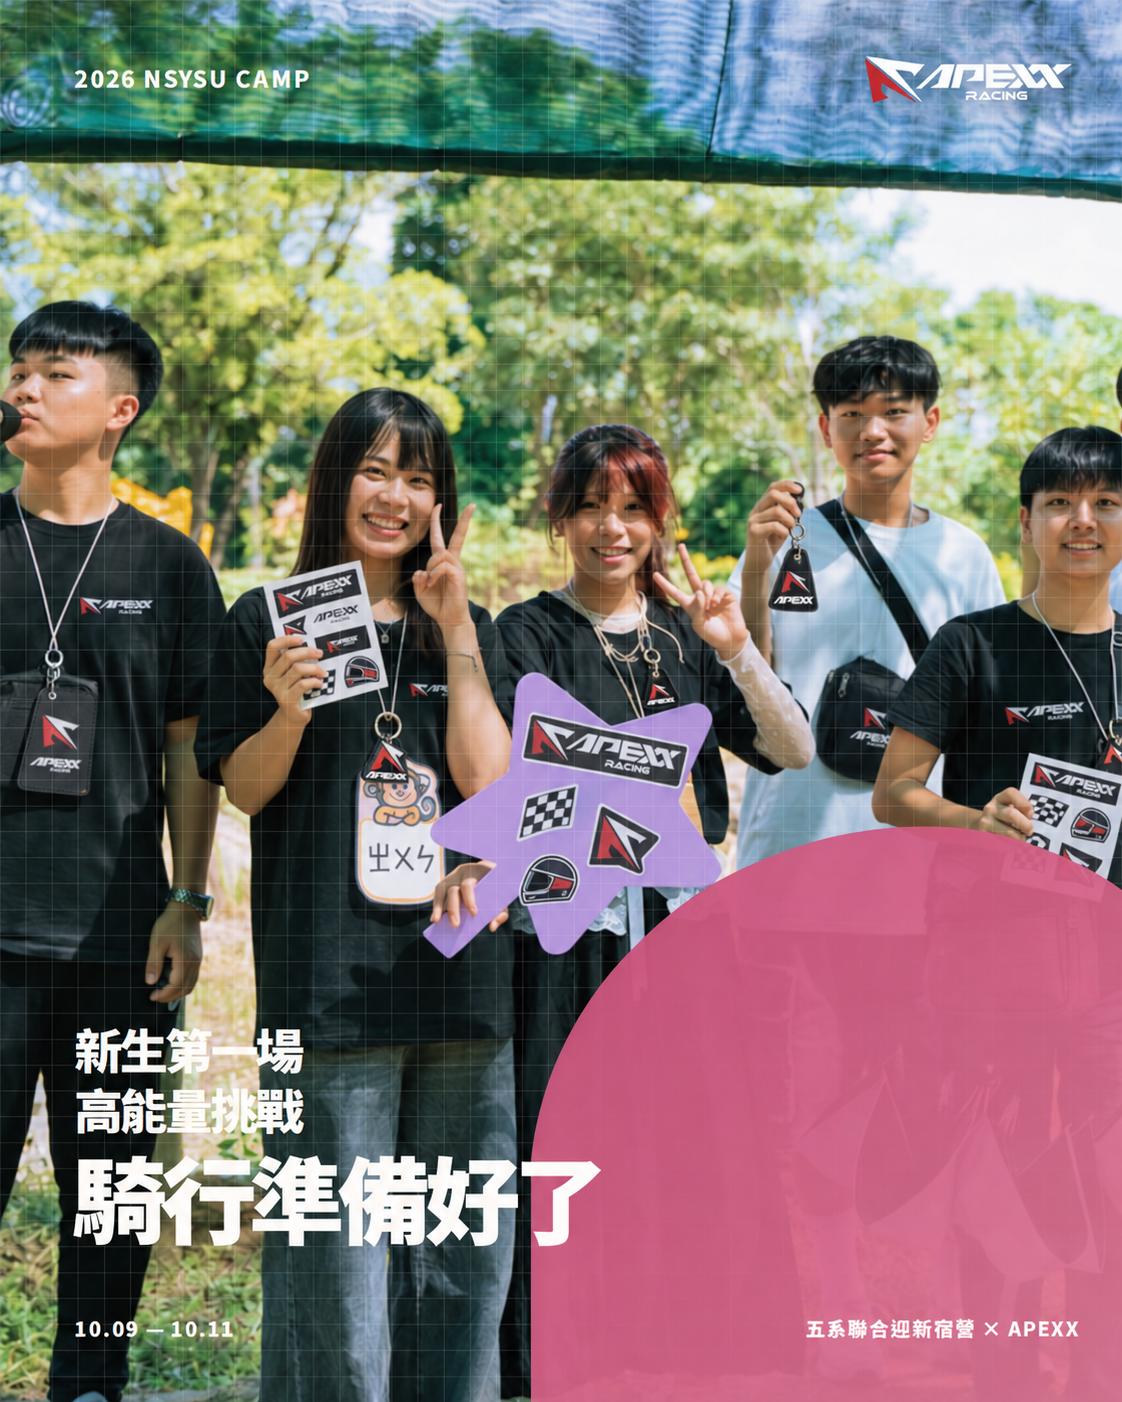
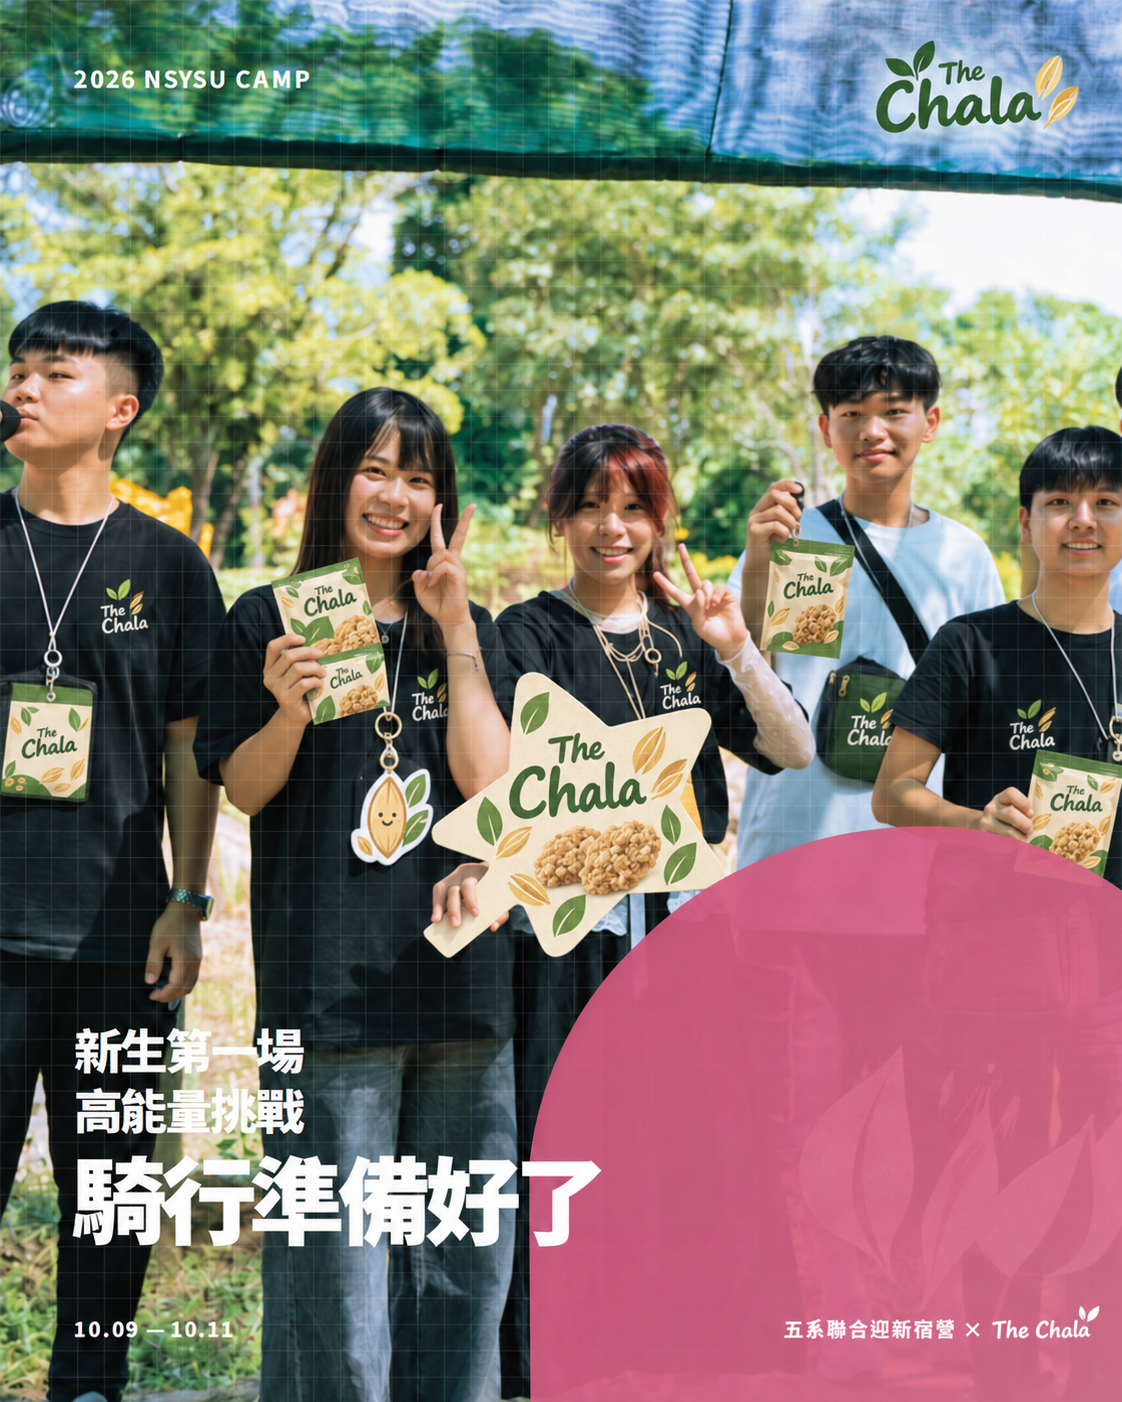
Polish The Chala proposal and post visual

diff --git a/the-chala/index.html b/the-chala/index.html
@@ -15,9 +15,9 @@
     <a class="skip-link" href="#overview">跳到提案內容</a>
     <header class="proposal-header"><nav class="proposal-nav shell" aria-label="提案頁面導覽"><a class="proposal-brand" href="#overview"><img src="assets/images/logo-avatar.jpg" alt="五系聯合宿營標誌" /><span><b>蕎拉燕麥 合作提案</b><small>2026 中山五系聯合迎新宿營</small></span></a><button class="nav-toggle" type="button" aria-expanded="false" aria-controls="proposal-menu">頁面選擇</button><div class="proposal-links" id="proposal-menu"><a class="active" href="#overview">活動資訊</a><a href="#collaboration">合作邀請</a><a href="#proposal">合作方案</a><a href="#execution">行程安全</a></div></nav></header>
     <main>
-      <section class="proposal-page overview is-active" id="overview" aria-labelledby="overview-title" tabindex="-1"><div class="shell overview-grid"><div class="overview-copy"><p class="eyebrow">PRIVATE PROPOSAL</p><p class="camp-line">國立中山大學・五系聯合迎新宿營</p><h1 id="overview-title"><span>把在地風味</span><em>放進相遇的時刻</em></h1><p class="opening">邀請 蕎拉燕麥 The Chala 陪五系新生在迎新晚會、闖關與小隊休息的合作情境中，認識指定商品的特色與品牌故事</p><dl class="event-facts"><div><dt>時間</dt><dd>2026.10.09 — 10.11</dd></div><div><dt>地點</dt><dd>中山大學・走馬瀨・安平</dd></div><div><dt>規模</dt><dd>150 人</dd></div></dl><a class="next-link" href="#collaboration">看見合作方式 <span aria-hidden="true">↓</span></a></div><figure class="overview-photo"><img src="assets/images/sponsor-hero.webp" alt="五系聯合宿營學員戶外合照" /><figcaption>活動情境示意｜合作素材與品牌露出將於執行前送交確認</figcaption></figure></div><div class="shell proof-strip"><div><strong>五系編制</strong><span>外文、醫科、光電、機電、生科</span></div><div><strong>三天兩夜</strong><span>破冰、戶外闖關、水大地、晚會與安平探索</span></div><div><strong>完整活動計畫</strong><span>隊輔陪伴、點名、安全說明與緊急應變</span></div></div></section>
-      <section class="proposal-page collaboration" id="collaboration" aria-labelledby="collaboration-title" tabindex="-1"><div class="shell hydration-grid"><figure class="hydration-photo"><img src="assets/images/sponsor-work-together.webp" alt="宿營學員團隊合照" /><figcaption>合作情境示意｜贊助品與宣傳素材將依 蕎拉燕麥 The Chala 核可內容執行</figcaption></figure><div class="hydration-copy"><p class="eyebrow blue">WHY 蕎拉燕麥 The Chala</p><h2 id="collaboration-title"><span>讓在地風味成為</span><span>晚會交流的記憶</span></h2><p>我們期待在活動中，以不將產品作為高風險活動或競賽的必要條件的方式，介紹蕎拉燕麥指定商品與品牌故事。商品實際提供方式、保存條件與現場呈現皆以品牌最終確認為準。</p><a class="source-link" href="https://www.riverbird.com.tw" target="_blank" rel="noopener noreferrer">前往蕎拉燕麥官方網站 ↗</a><article class="ask-card"><div class="ask-card-title"><span>核心合作邀請</span><strong>蕎拉燕麥裸食燕麥脆片隨身包</strong><span class="ask-product-detail">80 包｜活動合作安排</span></div><p>希望邀請 蕎拉燕麥 The Chala 提供 <b>80 包</b>，作為福袋、闖關補給或晚會分享情境的合作提案基礎。實際提供方式、場域安排與活動安全規範，皆以品牌最終確認為準。</p><div class="blank-product"><span>合作安排</span><b>依品牌建議的保存、提供與食用方式安排於合適活動時段</b></div><p>若 蕎拉燕麥 The Chala 希望搭配貼紙、鑰匙圈或其他品牌識別素材，我們也很樂意依品牌提供的內容，規劃合適的活動互動、網站與社群露出；所有呈現方式皆會在執行前送交確認。</p><small>產品規格、適用性、提供方式、品牌素材與露出範圍，均以 蕎拉燕麥 The Chala 最終確認為準。</small></article><a class="next-link" href="#proposal">看合作方案 <span aria-hidden="true">↓</span></a></div></div></section>
-      <section class="proposal-page partnership" id="proposal" aria-labelledby="proposal-title" tabindex="-1"><div class="shell partnership-heading"><p class="eyebrow">PARTNERSHIP PROPOSAL</p><h2 id="proposal-title">讓蕎拉燕麥的在地風味成為晚會交流的一部分</h2></div><div class="shell decision-layout"><article class="primary-request"><p>優先合作方案</p><div class="request-number"><strong>蕎拉燕麥裸食燕麥脆片隨身包<br /><span>80 包</span></strong></div><ul><li>裸食燕麥脆片隨身包依品牌建議的保存與提供方式安排</li><li>不作為遊戲獎勵，現場亦備有飲水與基本補給</li><li>實際提供與使用方式依品牌及場地規範確認</li><li>活動網站與 Instagram 內容皆於上線前送交核可</li></ul></article></div><div class="shell deliverable-table-wrap"><table class="deliverable-table"><caption>合作內容</caption><thead><tr><th scope="col">合作項目</th><th scope="col">主辦方交付</th><th scope="col">可共同討論</th><th scope="col">回報憑據</th></tr></thead><tbody><tr><th scope="row">活動合作安排</th><td>80 包僅在依品牌建議的保存、提供與食用方式的前提下，評估安排於活動適合時段。</td><td>產品提供方式、適用性與場地規範。</td><td>執行紀錄與現場照片。</td></tr><tr><th scope="row">品牌識別素材</th><td>若品牌提供貼紙、鑰匙圈或其他宣傳素材，可規劃為互動贈品或核可後的宣傳內容。</td><td>是否提供、素材種類、數量與使用規範。</td><td>現場與素材使用紀錄。</td></tr><tr><th scope="row"><a href="activity-mockup.html" target="_blank" rel="noopener noreferrer">活動官網 ↗</a></th><td>合作頁放置 蕎拉燕麥 The Chala Logo、官方連結與核可後的簡短介紹。</td><td>Logo 檔、連結與上線前審核。</td><td>線上截圖。</td></tr><tr><th scope="row">Instagram 合作內容</th><td>活動前、現場、活動後各 1 則內容；文案與視覺均先送 蕎拉燕麥 The Chala 確認。</td><td>素材、標記帳號與文案規範。</td><td>貼文連結與限時動態截圖。</td></tr><tr><th scope="row">成果結案</th><td>活動後 14 日內整理合作執行摘要與公開紀錄。</td><td>指定收件窗口與成果欄位。</td><td>結案 PDF、照片與公開連結。</td></tr></tbody></table></div><div class="shell content-preview" aria-labelledby="content-preview-title"><div class="content-preview-copy"><p class="eyebrow">CONTENT EXAMPLE</p><h3 id="content-preview-title"><span>Instagram</span><span>貼文模擬</span></h3><p>以下以三則貼文呈現合作方向：活動前建立期待、活動中記錄互動、活動後收束回憶。視覺、文案與發布時程皆會於上線前送交 蕎拉燕麥 The Chala 確認。</p><div class="resource-links"><a class="resource-link" href="https://benson0875.github.io/nsysu-camp-2026-repo/" target="_blank" rel="noopener noreferrer">前往活動官網 ↗</a><a class="resource-link" href="https://www.instagram.com/2026_nsysu_camp/" target="_blank" rel="noopener noreferrer">前往 Instagram ↗</a></div></div><article class="instagram-mockup" aria-label="蕎拉燕麥 The Chala Instagram 貼文模擬器"><header><img src="assets/images/logo-avatar.jpg" alt="" /><div><b>2026_nsysu_camp</b><small>中山五系聯合迎新宿營</small></div><button type="button" aria-label="更多選項">•••</button></header><div class="instagram-media"><img id="instagram-image" src="assets/instagram/01-before.png" alt="蕎拉燕麥 The Chala 合作貼文範例一" /><button class="ig-arrow previous" type="button" aria-label="上一張貼文" onclick="window.sponsorShowPost?.(-1); return false;">‹</button><button class="ig-arrow next" type="button" aria-label="下一張貼文" onclick="window.sponsorShowPost?.(1); return false;">›</button></div><div class="instagram-actions"><span aria-hidden="true">♡　◯　➤</span><div class="ig-dots" aria-label="貼文頁數"><button class="is-current" type="button" aria-label="顯示第 1 張範例" onclick="window.sponsorShowPost?.(0, true); return false;"></button><button type="button" aria-label="顯示第 2 張範例" onclick="window.sponsorShowPost?.(1, true); return false;"></button><button type="button" aria-label="顯示第 3 張範例" onclick="window.sponsorShowPost?.(2, true); return false;"></button></div><span aria-hidden="true">⌑</span></div><div class="instagram-caption"><b>2026_nsysu_camp</b><p id="instagram-caption">活動前，我們先把晚會的交流規劃好。所有合作素材均於上線前送蕎拉燕麥確認。</p><small id="instagram-date">貼文方向一｜活動前</small></div></article></div><div class="shell page-next"><a class="next-link" href="#execution">看活動執行與安全規劃 <span aria-hidden="true">↓</span></a></div></section>
+      <section class="proposal-page overview is-active" id="overview" aria-labelledby="overview-title" tabindex="-1"><div class="shell overview-grid"><div class="overview-copy"><p class="eyebrow">PRIVATE PROPOSAL</p><p class="camp-line">國立中山大學・五系聯合迎新宿營</p><h1 id="overview-title"><span>把在地風味</span><em>放進相遇的時刻</em></h1><p class="opening">邀請蕎拉燕麥 The Chala 陪五系新生，在迎新晚會與小隊休息中認識商品與品牌故事</p><dl class="event-facts"><div><dt>時間</dt><dd>2026.10.09 — 10.11</dd></div><div><dt>地點</dt><dd>中山大學・走馬瀨・安平</dd></div><div><dt>規模</dt><dd>150 人</dd></div></dl><a class="next-link" href="#collaboration">看見合作方式 <span aria-hidden="true">↓</span></a></div><figure class="overview-photo"><img src="assets/images/sponsor-hero.webp" alt="五系聯合宿營學員戶外合照" /><figcaption>活動情境示意｜合作素材與品牌露出將於執行前送交確認</figcaption></figure></div><div class="shell proof-strip"><div><strong>五系編制</strong><span>外文、醫科、光電、機電、生科</span></div><div><strong>三天兩夜</strong><span>破冰、戶外闖關、水大地、晚會與安平探索</span></div><div><strong>完整活動計畫</strong><span>隊輔陪伴、點名、安全說明與緊急應變</span></div></div></section>
+      <section class="proposal-page collaboration" id="collaboration" aria-labelledby="collaboration-title" tabindex="-1"><div class="shell hydration-grid"><figure class="hydration-photo"><img src="assets/images/sponsor-work-together.webp" alt="宿營學員團隊合照" /><figcaption>合作情境示意｜贊助品與宣傳素材將依 蕎拉燕麥 The Chala 核可內容執行</figcaption></figure><div class="hydration-copy"><p class="eyebrow blue">WHY 蕎拉燕麥 The Chala</p><h2 id="collaboration-title"><span>讓在地風味成為</span><span>晚會交流的記憶</span></h2><p>我們期待在活動中，介紹蕎拉燕麥指定商品與品牌故事。商品實際提供方式、保存條件與現場呈現皆以品牌最終確認為準。</p><a class="source-link" href="https://www.riverbird.com.tw" target="_blank" rel="noopener noreferrer">前往蕎拉燕麥官方網站 ↗</a><article class="ask-card"><div class="ask-card-title"><span>核心合作邀請</span><strong>蕎拉燕麥<br />裸食燕麥脆片隨身包</strong><span class="ask-product-detail">80 包｜活動合作安排</span></div><p>希望邀請 蕎拉燕麥 The Chala 提供 <b>80 包</b>，作為福袋、闖關補給或晚會分享情境的合作提案基礎。實際提供方式、場域安排與活動安全規範，皆以品牌最終確認為準。</p><div class="blank-product"><span>合作安排</span><b>依品牌建議的保存、提供與食用方式安排於合適活動時段</b></div><p>若 蕎拉燕麥 The Chala 希望搭配貼紙、鑰匙圈或其他品牌識別素材，我們也很樂意依品牌提供的內容，規劃合適的活動互動、網站與社群露出；所有呈現方式皆會在執行前送交確認。</p><small>產品規格、適用性、提供方式、品牌素材與露出範圍，均以 蕎拉燕麥 The Chala 最終確認為準。</small></article><a class="next-link" href="#proposal">看合作方案 <span aria-hidden="true">↓</span></a></div></div></section>
+      <section class="proposal-page partnership" id="proposal" aria-labelledby="proposal-title" tabindex="-1"><div class="shell partnership-heading"><p class="eyebrow">PARTNERSHIP PROPOSAL</p><h2 id="proposal-title">讓蕎拉燕麥的在地風味成為晚會交流的一部分</h2></div><div class="shell decision-layout"><article class="primary-request"><p>優先合作方案</p><div class="request-number"><strong>蕎拉燕麥裸食燕麥脆片隨身包<br /><span>80 包</span></strong></div><ul><li>裸食燕麥脆片隨身包依品牌建議的保存與提供方式安排</li><li>不作為遊戲獎勵，現場亦備有飲水與基本補給</li><li>實際提供與使用方式依品牌及場地規範確認</li><li>活動網站與 Instagram 內容皆於上線前送交核可</li></ul></article></div><div class="shell deliverable-table-wrap"><table class="deliverable-table"><caption>合作內容</caption><thead><tr><th scope="col">合作項目</th><th scope="col">主辦方交付</th><th scope="col">可共同討論</th><th scope="col">回報憑據</th></tr></thead><tbody><tr><th scope="row">活動合作安排</th><td>80 包僅在依品牌建議的保存、提供與食用方式的前提下，評估安排於活動適合時段。</td><td>產品提供方式、適用性與場地規範。</td><td>執行紀錄與現場照片。</td></tr><tr><th scope="row">品牌識別素材</th><td>若品牌提供貼紙、鑰匙圈或其他宣傳素材，可規劃為互動贈品或核可後的宣傳內容。</td><td>是否提供、素材種類、數量與使用規範。</td><td>現場與素材使用紀錄。</td></tr><tr><th scope="row"><a href="https://benson0875.github.io/nsysu-camp-2026-repo/" target="_blank" rel="noopener noreferrer">活動官網 ↗</a></th><td>合作頁放置 蕎拉燕麥 The Chala Logo、官方連結與核可後的簡短介紹。</td><td>Logo 檔、連結與上線前審核。</td><td>線上截圖。</td></tr><tr><th scope="row">Instagram 合作內容</th><td>活動前、現場、活動後各 1 則內容；文案與視覺均先送 蕎拉燕麥 The Chala 確認。</td><td>素材、標記帳號與文案規範。</td><td>貼文連結與限時動態截圖。</td></tr><tr><th scope="row">成果結案</th><td>活動後 14 日內整理合作執行摘要與公開紀錄。</td><td>指定收件窗口與成果欄位。</td><td>結案 PDF、照片與公開連結。</td></tr></tbody></table></div><div class="shell content-preview" aria-labelledby="content-preview-title"><div class="content-preview-copy"><p class="eyebrow">CONTENT EXAMPLE</p><h3 id="content-preview-title"><span>Instagram</span><span>貼文模擬</span></h3><p>以下以三則貼文呈現合作方向：活動前建立期待、活動中記錄互動、活動後收束回憶。視覺、文案與發布時程皆會於上線前送交 蕎拉燕麥 The Chala 確認。</p><div class="resource-links"><a class="resource-link" href="https://benson0875.github.io/nsysu-camp-2026-repo/" target="_blank" rel="noopener noreferrer">前往活動官網 ↗</a><a class="resource-link" href="https://www.instagram.com/2026_nsysu_camp/" target="_blank" rel="noopener noreferrer">前往 Instagram ↗</a></div></div><article class="instagram-mockup" aria-label="蕎拉燕麥 The Chala Instagram 貼文模擬器"><header><img src="assets/images/logo-avatar.jpg" alt="" /><div><b>2026_nsysu_camp</b><small>中山五系聯合迎新宿營</small></div><button type="button" aria-label="更多選項">•••</button></header><div class="instagram-media"><img id="instagram-image" src="assets/instagram/01-before.png" alt="蕎拉燕麥 The Chala 合作貼文範例一" /><button class="ig-arrow previous" type="button" aria-label="上一張貼文" onclick="window.sponsorShowPost?.(-1); return false;">‹</button><button class="ig-arrow next" type="button" aria-label="下一張貼文" onclick="window.sponsorShowPost?.(1); return false;">›</button></div><div class="instagram-actions"><span aria-hidden="true">♡　◯　➤</span><div class="ig-dots" aria-label="貼文頁數"><button class="is-current" type="button" aria-label="顯示第 1 張範例" onclick="window.sponsorShowPost?.(0, true); return false;"></button><button type="button" aria-label="顯示第 2 張範例" onclick="window.sponsorShowPost?.(1, true); return false;"></button><button type="button" aria-label="顯示第 3 張範例" onclick="window.sponsorShowPost?.(2, true); return false;"></button></div><span aria-hidden="true">⌑</span></div><div class="instagram-caption"><b>2026_nsysu_camp</b><p id="instagram-caption">活動前，我們先把晚會的交流規劃好。所有合作素材均於上線前送蕎拉燕麥確認。</p><small id="instagram-date">貼文方向一｜活動前</small></div></article></div><div class="shell page-next"><a class="next-link" href="#execution">看活動執行與安全規劃 <span aria-hidden="true">↓</span></a></div></section>
       <section class="proposal-page execution" id="execution" aria-labelledby="execution-title" tabindex="-1"><div class="shell execution-heading"><p class="eyebrow">EXECUTION &amp; SAFETY</p><h2 id="execution-title">把合作融入活動也守住安全</h2></div><div class="shell schedule-grid"><article><span>DAY 1 / 10.09</span><h3>先認識彼此</h3><p>破冰、夜教、宵夜</p><small>校園內集合與活動，隊輔帶領、點名與安全說明。</small></article><article><span>DAY 2 / 10.10</span><h3>高活動量的一天</h3><p>走馬瀨大地遊戲、水大地、晚會</p><small>抽獎與合作夥伴致謝可安排於晚會等合適環節。</small></article><article><span>DAY 3 / 10.11</span><h3>完成共同旅程</h3><p>結業、團隊活動、安平探索</p><small>戶外活動與移動前皆完成安全說明，結束後返抵中山大學。</small></article></div><div class="shell safety-grid"><article><h3>現場安全</h3><p>飲水、急救箱、點名與醫療聯絡表全程配置。各活動前完成安全說明與器材檢查。</p></article><article><h3>天候與應變</h3><p>雨勢、高溫或重大事件依校方、場地方與政府指示調整。</p></article><article><h3>合作執行原則</h3><p>抽獎與宣傳不影響活動安全與參與者隱私。所有對外品牌文字皆經確認後發布。</p></article></div><div class="shell closing-card"><div><p class="eyebrow">NEXT STEP</p><h2><span>期待與 蕎拉燕麥 The Chala 一起</span><span>讓相遇留下好的記憶</span></h2></div><p>若 蕎拉燕麥 The Chala 願意評估本案，我們將依品牌回覆確認贊助商品、素材與交付項目，並提供最終執行版本。</p></div></section>
   </body>
 </html>

diff --git a/the-chala/styles.css b/the-chala/styles.css
@@ -7,7 +7,7 @@
 
 .sponsor-proposal .ask-card { max-width: 43rem; }
 .sponsor-proposal .ask-card-title { gap: .55rem; }
-.sponsor-proposal .ask-card-title strong { font-size: clamp(2rem, 3.6vw, 3rem); line-height: 1.2; letter-spacing: .025em; overflow-wrap: normal; word-break: keep-all; }
+.sponsor-proposal .ask-card-title strong { max-width: 100%; font-size: clamp(1.55rem, 2.15vw, 2.05rem); line-height: 1.22; letter-spacing: 0; overflow-wrap: normal; word-break: keep-all; }
 .sponsor-proposal .ask-product-detail { display: block; font-size: clamp(1.08rem, 1.8vw, 1.35rem); line-height: 1.5; word-break: keep-all; }
 .sponsor-proposal .blank-product b { line-height: 1.75; word-break: keep-all; }
 .sponsor-proposal .request-number strong { display: block; line-height: 1.42; letter-spacing: .04em; word-break: keep-all; }
